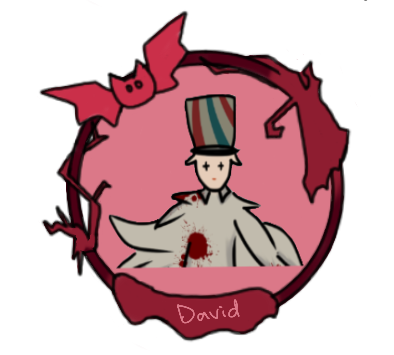
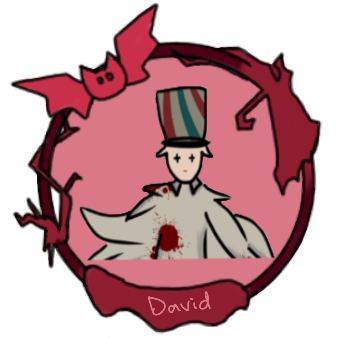
modified png size

diff --git a/BlinderEngine/include/UI.h b/BlinderEngine/include/UI.h
@@ -28,13 +28,13 @@ public:
 
 	const double time_sizeX = 0.15;
 	const double time_sizeY = 0.675;
-	const double time_posiX = -0.995;
+	const double time_posiX = -0.96;
 	//const double time_posiY = -0.8;
 	const char* time_png = "./images/timebar-fillempty.png";
 
 	const double time_bar_sizeX = time_sizeX / 1.8;
 	const double time_bar_sizeY = time_sizeY;
-	const double time_bar_posiX = -0.995;
+	const double time_bar_posiX = time_posiX;
 	//const double time_bar_posiY = -0.8;
 	const char* time_bar_png = "./images/timebar-fill.png";
 	const char* time_bar_cut = "./images/timebar-fill-cut.png";

diff --git a/BlinderEngine/include/Constants.h b/BlinderEngine/include/Constants.h
@@ -36,7 +36,7 @@ namespace Constants
 	const std::string girl_action_animation_path = "./resources/objects/girl/animation/girl_dribbling.dae";
 
 
-	const bool offline = false;
+	const bool offline = true;
 
 
 	const int DIST_LIMIT = 20;
